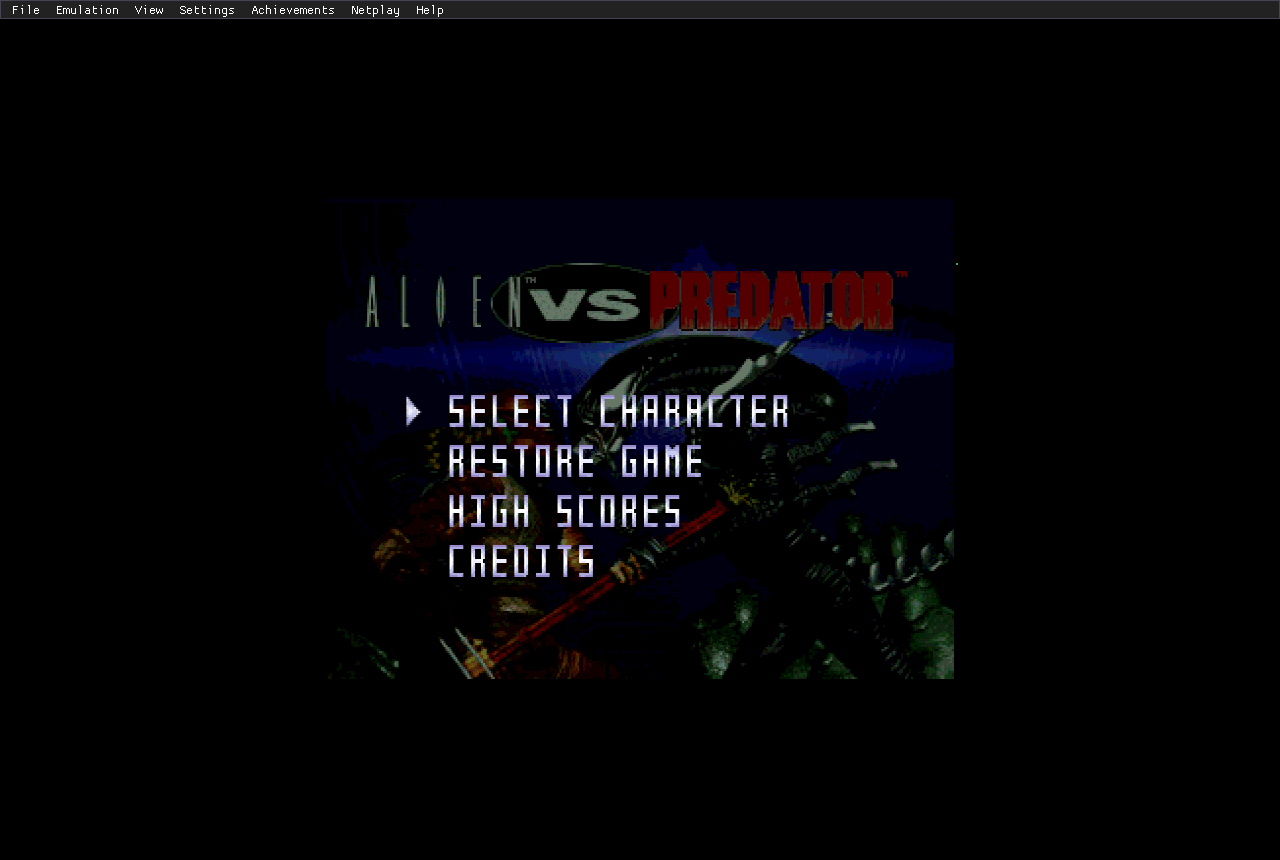
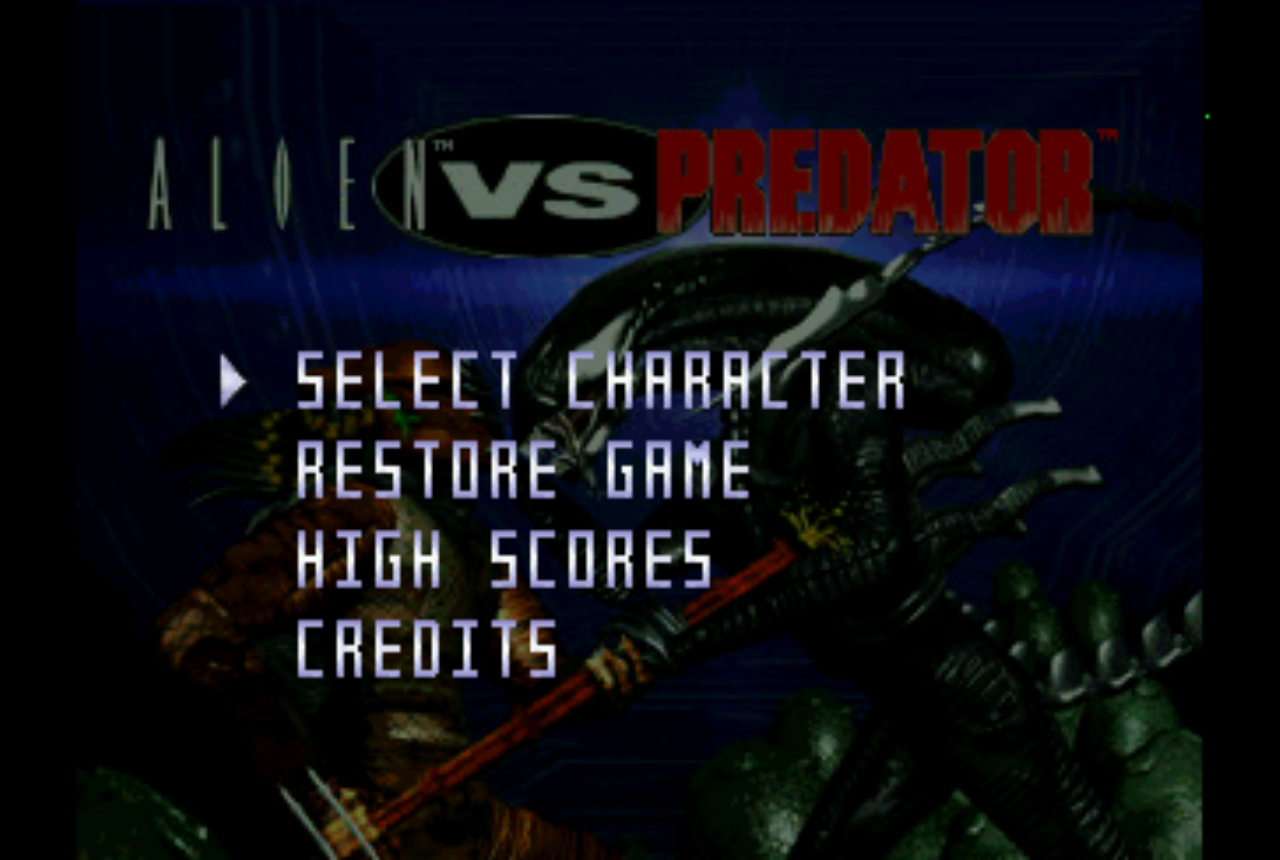
docs(site): app page CRT example with an aperture-grille shader, aspect-correct
Regenerate the plain / CRT pair from one saved game moment and one window
config (aspect fit, no integer scaling, no stretch; only shader.* differs),
and use the bundled crt-gdv-mini-ultra-trinitron preset instead of CRT-Royale's
default: visible vertical aperture-grille stripes, mild bloom, not too dark.

diff --git a/site/pages/app.html b/site/pages/app.html
@@ -128,20 +128,28 @@
     </p>
     <div class="ab-pair">
       <figure class="shot smooth">
-        <div class="win-bar">Plain <span class="badge">integer scale</span></div>
+        <div class="win-bar">Plain <span class="badge">aspect fit</span></div>
         <div class="well">
           <img src="assets/app_game.png" width="1280" height="860"
-               alt="The Alien vs Predator main menu (Select Character, Restore Game, High Scores, Credits) drawn sharp on a black window, centred with integer scaling.">
+               alt="The Alien vs Predator main menu (Select Character, Restore Game, High Scores, Credits) drawn sharp at its 4:3 shape inside the app window, with black bars at the sides.">
         </div>
       </figure>
       <figure class="shot smooth">
-        <div class="win-bar">CRT-Royale <span class="badge">same frame</span></div>
+        <div class="win-bar">CRT-GDV-Mini Ultra Trinitron <span class="badge">same frame</span></div>
         <div class="well">
           <img src="assets/app_game_crt.png" width="1280" height="860"
-               alt="The same Alien vs Predator menu through the CRT-Royale shader preset, with visible scanlines, phosphor mask and glow.">
+               alt="The same Alien vs Predator menu through the crt-gdv-mini-ultra-trinitron shader preset, in the same 4:3 frame, with vertical aperture-grille phosphor stripes, faint scanlines and a soft glow like a Sony Trinitron tube.">
         </div>
       </figure>
     </div>
+    <p class="footnote">
+      Both pictures are the same saved moment in the same window, drawn with
+      aspect fit (the picture keeps its 4:3 shape and is letterboxed, never
+      stretched); only the shader differs. The right-hand one is the bundled
+      <code>crt-gdv-mini-ultra-trinitron</code> preset, an aperture-grille
+      (Sony Trinitron style) look; the other CRT presets use shadow or slot
+      masks.
+    </p>
     <p class="footnote">
       Shaders are optional: if a preset does not compile or librashader is
       missing, the app draws the plain picture and says why.

diff --git a/README.md b/README.md
@@ -45,7 +45,7 @@ A standalone front end for the same core, in `app/`: SDL3 for window, audio and 
 
 <p>
   <img src="site/assets/app_library.png" width="49%" alt="The app's game library: a grid of Atari Jaguar box art tiles under Cartridges, Jaguar CD and BIOS and system tabs">
-  <img src="site/assets/app_game_crt.png" width="49%" alt="The Alien vs Predator menu drawn through the CRT-Royale shader preset">
+  <img src="site/assets/app_game_crt.png" width="49%" alt="The Alien vs Predator menu drawn through an aperture-grille Trinitron-style CRT shader preset">
 </p>
 
 - **Game library:** the home screen is a grid of your games, in Cartridges, Jaguar CD and BIOS & system tabs. Files are identified by CRC32 against the libretro database (No-Intro, Redump), and box art is downloaded on demand from [libretro-thumbnails](https://github.com/libretro-thumbnails/Atari_-_Jaguar) and cached; not every title has art upstream. File > Open, drag and drop and the command line still work.
